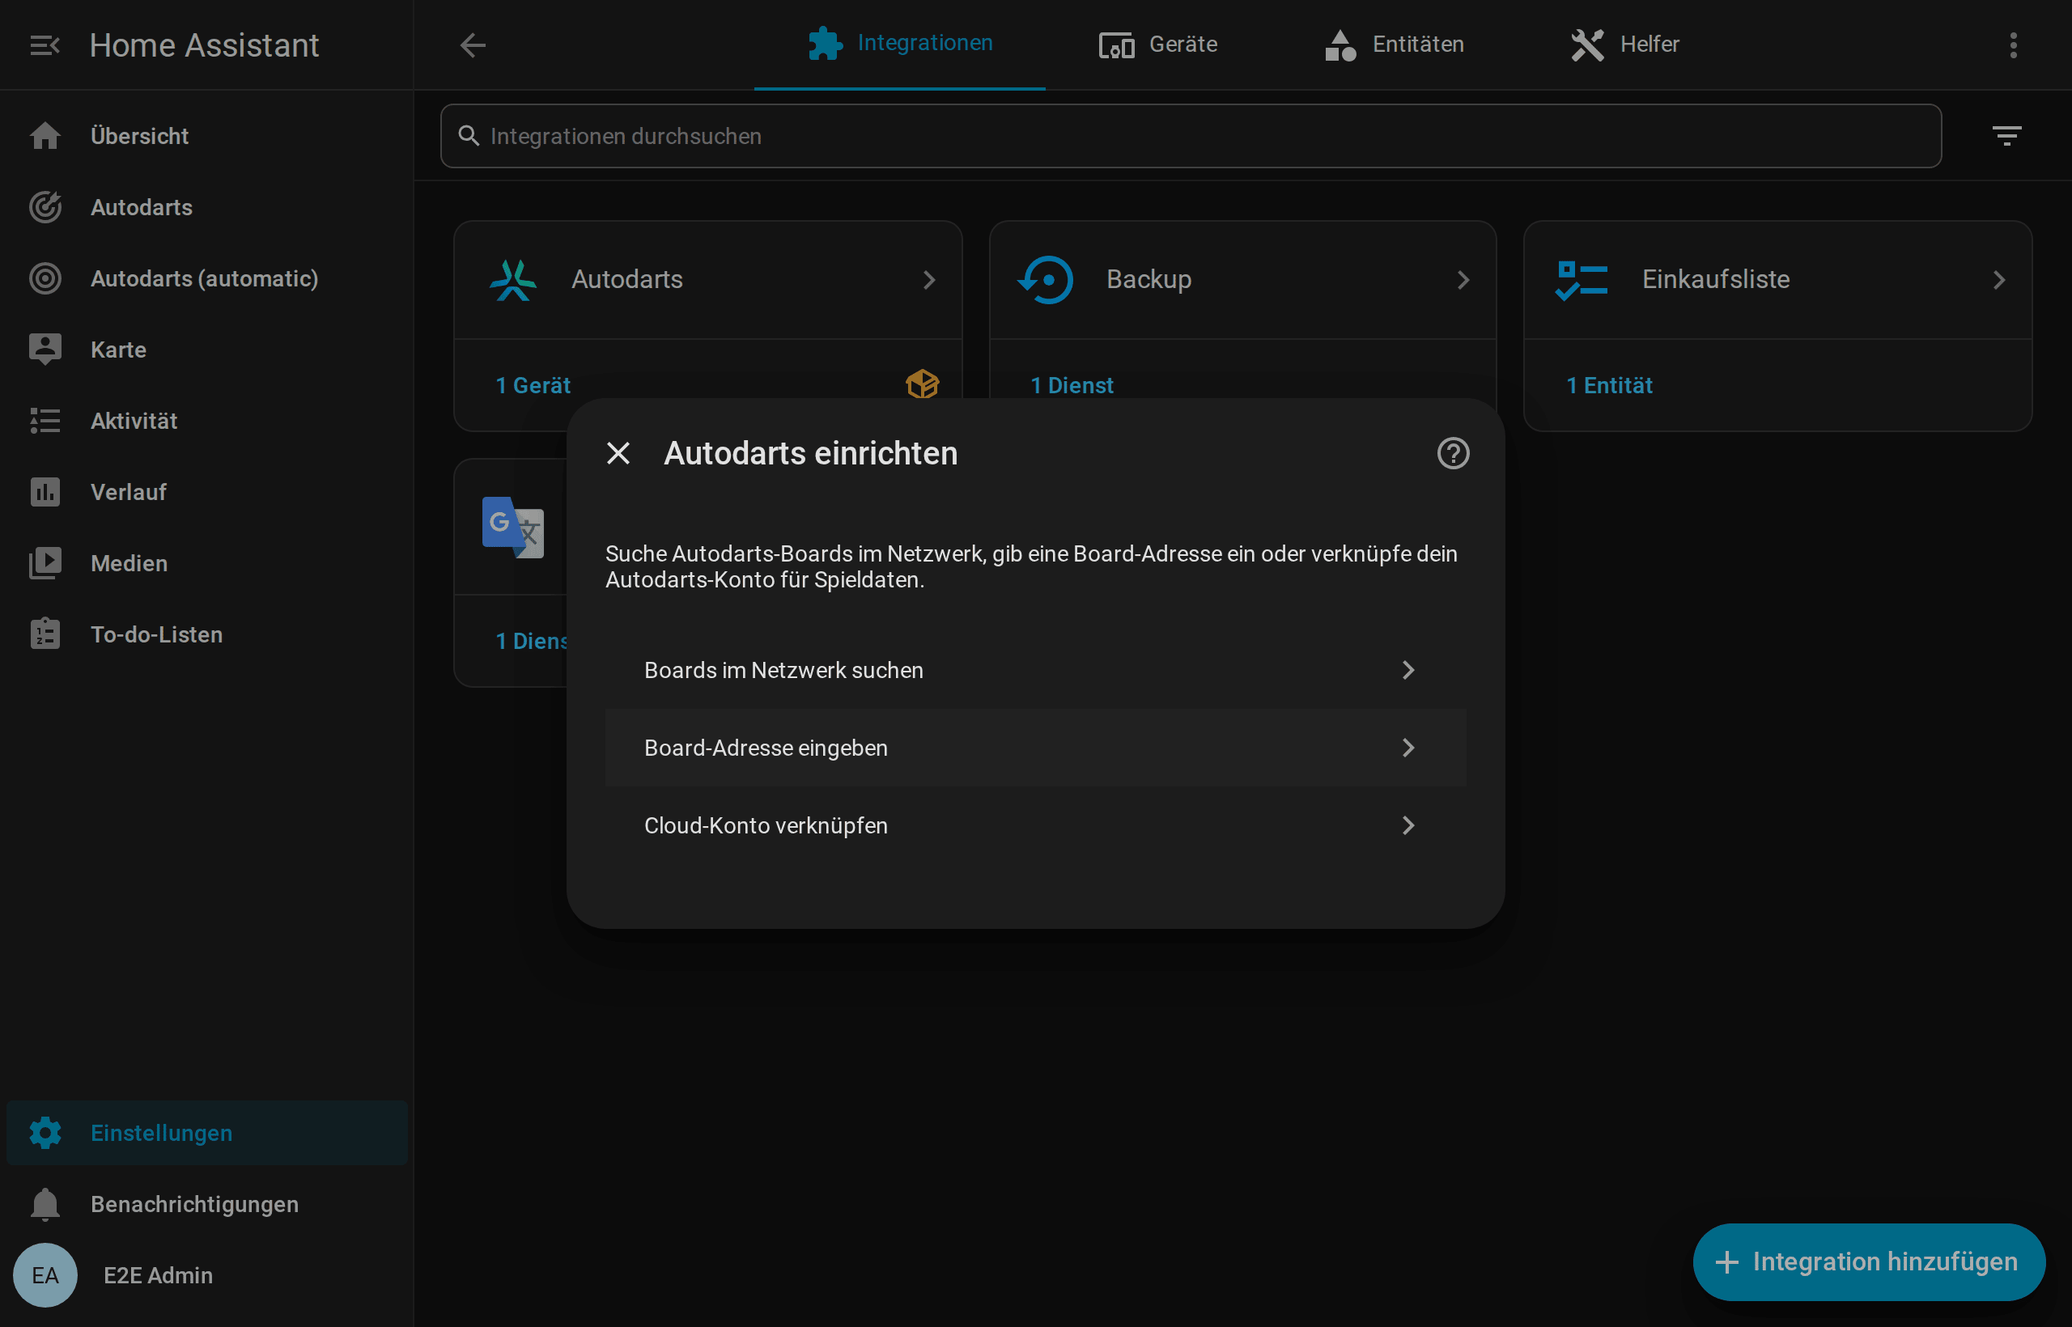
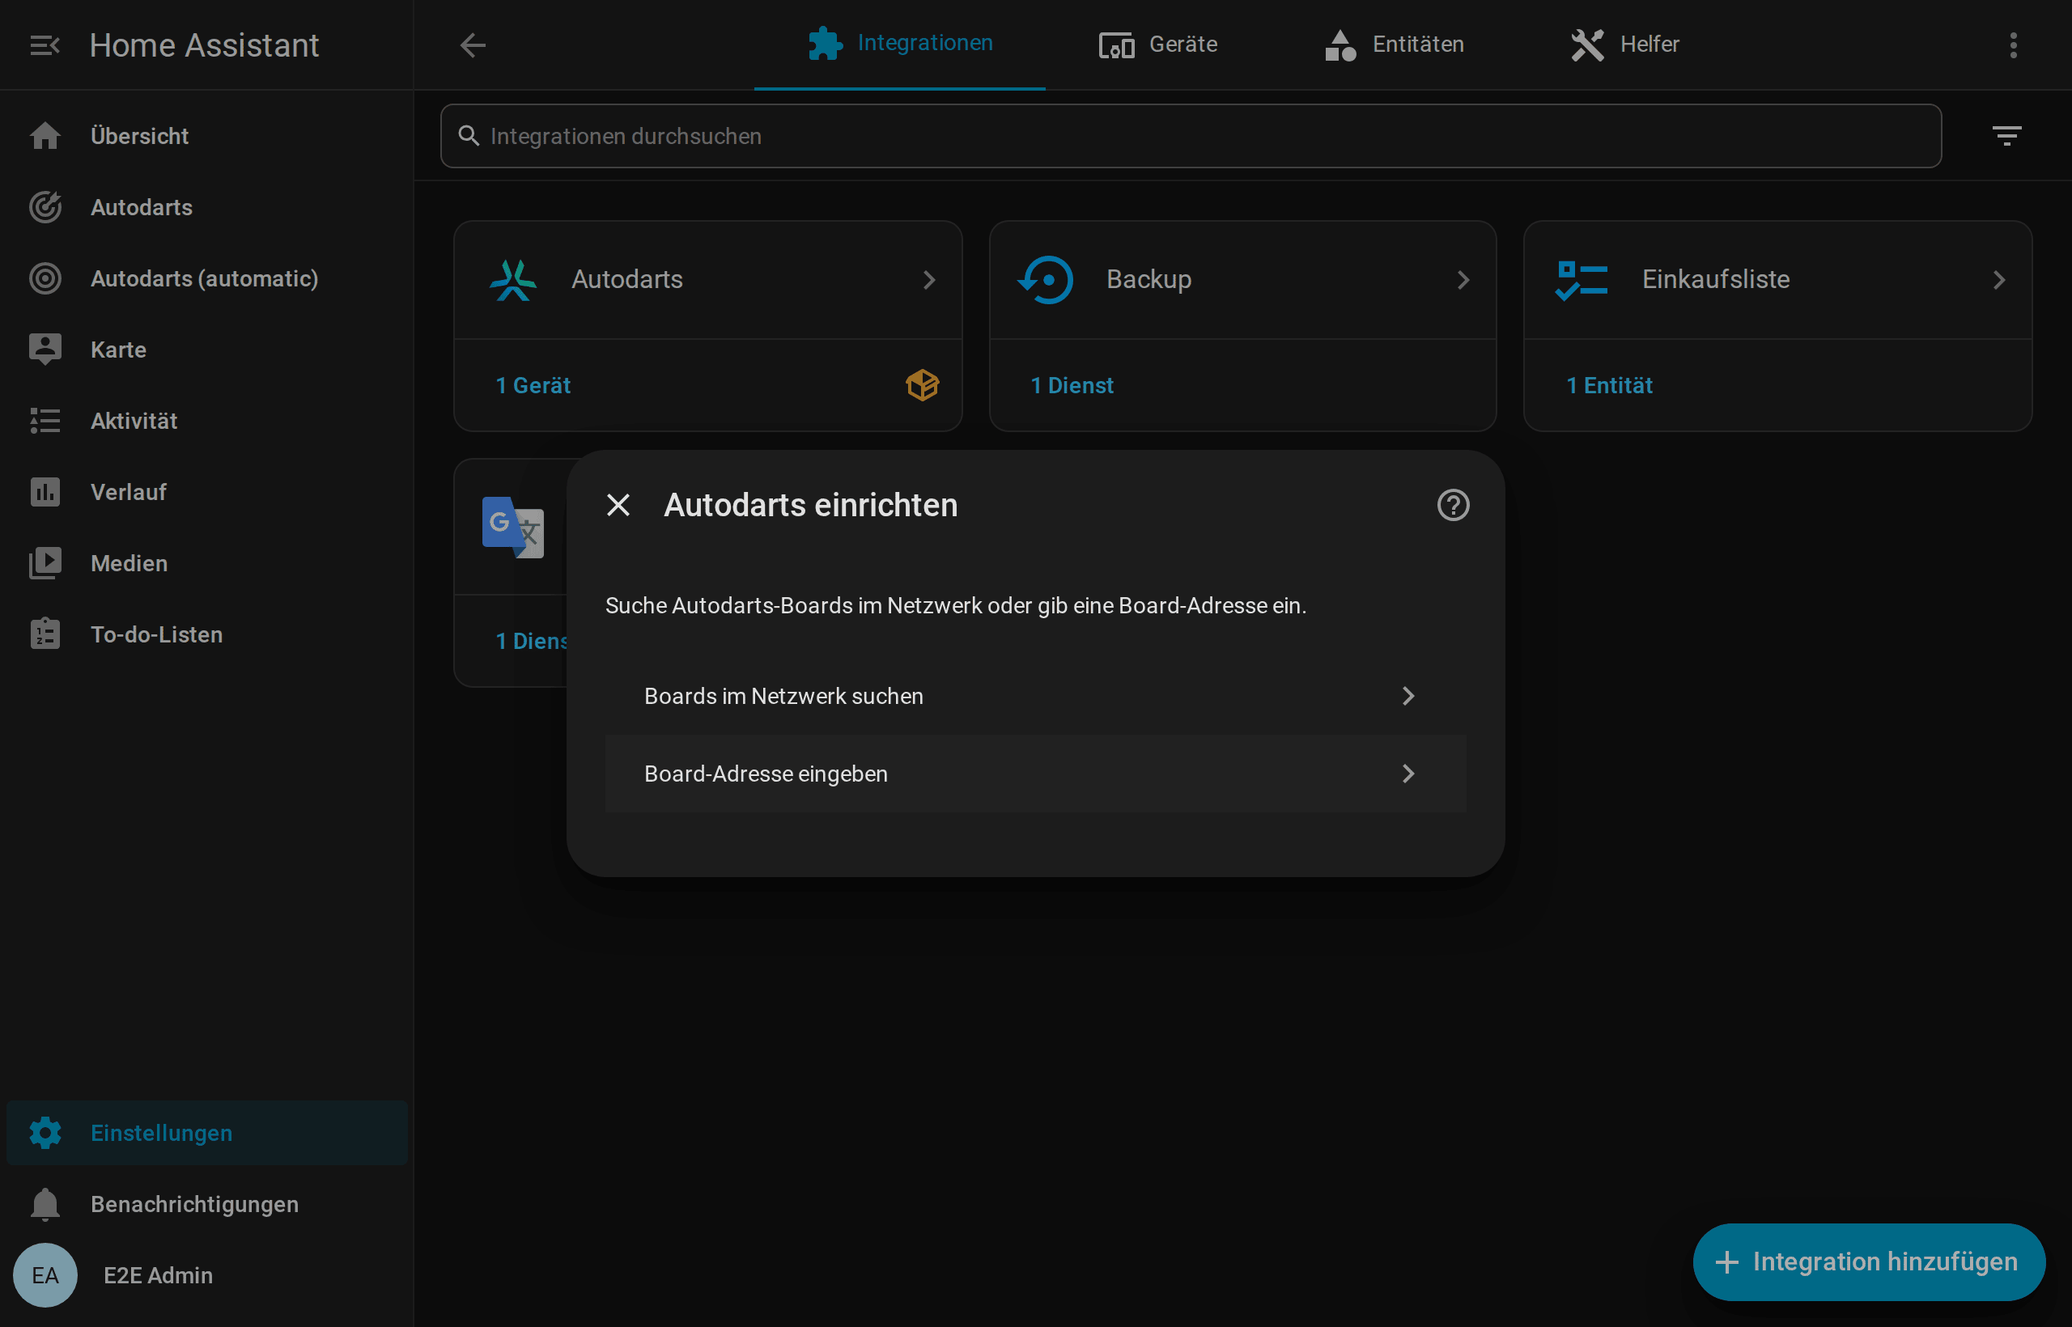
fix(cloud): no dead end while Autodarts has not issued a client ID
Setup and Reconfigure offered "Link cloud account", which asks for an
OAuth client ID that nobody can obtain yet. Until Autodarts issues it:

- the menus offer only discovery and the board address;
- old cloud entries without a client ID run locally instead of asking
  for a login that cannot be completed;
- an entry without a board address fails with a clear request to enter
  it via Reconfigure instead of retrying forever.

With a linked account, the cloud is read every 5 seconds only during a
match and once a minute otherwise. The device login step has a title.
The cloud tests opt in through a fixture; new tests cover the shipped
state.

diff --git a/tests/test_config_flow.py b/tests/test_config_flow.py
@@ -73,6 +73,7 @@ async def complete_link(hass, result, future, boards):
     return result
 
 
+@pytest.mark.usefixtures("cloud_link")
 async def test_device_login_creates_board_entry(hass):
     future = asyncio.get_running_loop().create_future()
     result = await init_cloud_flow(hass)
@@ -87,6 +88,7 @@ async def test_device_login_creates_board_entry(hass):
     assert result["result"].unique_id == "board-1"
 
 
+@pytest.mark.usefixtures("cloud_link")
 async def test_multiple_boards(hass):
     future = asyncio.get_running_loop().create_future()
     result = await init_cloud_flow(hass)
@@ -106,6 +108,7 @@ async def test_multiple_boards(hass):
 @pytest.mark.parametrize(
     "boards,reason", [([], "no_boards"), ([BOARD], "already_configured")]
 )
+@pytest.mark.usefixtures("cloud_link")
 async def test_no_boards_and_legacy_duplicates(hass, boards, reason):
     if reason == "already_configured":
         entry = MockConfigEntry(
@@ -163,6 +166,7 @@ async def test_legacy_reauth_preserves_entry_and_local_settings(hass, boards, re
         (AutodartsConnectionError(), "cannot_connect"),
     ],
 )
+@pytest.mark.usefixtures("cloud_link")
 async def test_code_request_errors(hass, error, translation):
     result = await init_cloud_flow(hass)
     with patch(
@@ -175,6 +179,7 @@ async def test_code_request_errors(hass, error, translation):
     assert result["errors"] == {"base": translation}
 
 
+@pytest.mark.usefixtures("cloud_link")
 @pytest.mark.parametrize("code", ["expired_token", "access_denied"])
 async def test_device_error_can_restart(hass, code):
     future = asyncio.get_running_loop().create_future()
@@ -189,6 +194,7 @@ async def test_device_error_can_restart(hass, code):
     assert result["step_id"] == "cloud"
 
 
+@pytest.mark.usefixtures("cloud_link")
 async def test_abort_cancels_device_polling(hass):
     future = asyncio.get_running_loop().create_future()
     result = await init_cloud_flow(hass)
@@ -198,6 +204,7 @@ async def test_abort_cancels_device_polling(hass):
     assert future.cancelled()
 
 
+@pytest.mark.usefixtures("cloud_link")
 async def test_board_outage_retries_without_new_device_code(hass):
     future = asyncio.get_running_loop().create_future()
     result = await init_cloud_flow(hass)
@@ -225,6 +232,7 @@ async def test_board_outage_retries_without_new_device_code(hass):
     assert result["type"] == FlowResultType.CREATE_ENTRY
 
 
+@pytest.mark.usefixtures("cloud_link")
 async def test_setup_requests_registered_client_id(hass):
     """Do not send users to the retired Keycloak client/redirect flow."""
     result = await init_cloud_flow(hass)

diff --git a/tests/test_config_flow_edges.py b/tests/test_config_flow_edges.py
@@ -3,6 +3,7 @@
 import asyncio
 from unittest.mock import patch
 
+import pytest
 from homeassistant.config_entries import SOURCE_REAUTH
 from homeassistant.data_entry_flow import FlowResultType
 from pytest_homeassistant_custom_component.common import MockConfigEntry
@@ -63,6 +64,7 @@ async def test_local_board_without_version_is_added(hass, aioclient_mock):
     assert "api_generation" not in result["data"]
 
 
+@pytest.mark.usefixtures("cloud_link")
 async def test_cloud_form_rejects_an_invalid_board_address(hass):
     result = await init_cloud_flow(hass)
     result = await hass.config_entries.flow.async_configure(
@@ -72,6 +74,7 @@ async def test_cloud_form_rejects_an_invalid_board_address(hass):
     assert result["errors"] == {"host": "invalid_host"}
 
 
+@pytest.mark.usefixtures("cloud_link")
 async def test_cloud_entry_can_include_the_local_board(hass):
     result = await init_cloud_flow(hass)
     result, future = await link_with(
@@ -84,6 +87,7 @@ async def test_cloud_entry_can_include_the_local_board(hass):
     assert result["data"]["port"] == 3181
 
 
+@pytest.mark.usefixtures("cloud_link")
 async def test_unexpected_login_error_and_lost_connection(hass):
     future = asyncio.get_running_loop().create_future()
     result = await init_cloud_flow(hass)
@@ -103,6 +107,7 @@ async def test_unexpected_login_error_and_lost_connection(hass):
     assert result["errors"] == {"base": "cannot_connect"}
 
 
+@pytest.mark.usefixtures("cloud_link")
 async def test_rejected_token_while_listing_boards_asks_to_retry(hass):
     future = asyncio.get_running_loop().create_future()
     result = await init_cloud_flow(hass)
@@ -115,6 +120,7 @@ async def test_rejected_token_while_listing_boards_asks_to_retry(hass):
     assert result["errors"] == {"base": "invalid_auth"}
 
 
+@pytest.mark.usefixtures("cloud_link")
 async def test_token_refreshed_while_listing_boards_is_stored(hass):
     refreshed = {**TOKEN, "access_token": "refreshed"}
     future = asyncio.get_running_loop().create_future()

diff --git a/custom_components/autodarts/__init__.py b/custom_components/autodarts/__init__.py
@@ -8,7 +8,11 @@ from urllib.parse import urlparse
 
 from homeassistant.config_entries import ConfigEntry
 from homeassistant.core import HomeAssistant
-from homeassistant.exceptions import ConfigEntryAuthFailed, ConfigEntryNotReady
+from homeassistant.exceptions import (
+    ConfigEntryAuthFailed,
+    ConfigEntryError,
+    ConfigEntryNotReady,
+)
 from homeassistant.helpers import config_validation as cv
 from homeassistant.helpers import device_registry as dr
 from homeassistant.helpers import entity_registry as er
@@ -17,6 +21,7 @@ from homeassistant.helpers.aiohttp_client import async_get_clientsession
 from homeassistant.helpers.storage import Store
 from homeassistant.helpers.typing import ConfigType
 
+from . import const
 from .api import AutodartsCloudClient
 from .card import async_register_card
 from .const import (
@@ -110,7 +115,10 @@ async def async_setup_entry(hass: HomeAssistant, entry: AutodartsConfigEntry) ->
             # Entities stay and recover when the board answers again.
             local_error = err
 
-    if not entry.data.get(CONF_LOCAL_ONLY, False):
+    # Without an obtainable client ID, a relink could never be completed.
+    if not entry.data.get(CONF_LOCAL_ONLY, False) and (
+        const.CLOUD_LINK_AVAILABLE or entry.data.get(CONF_CLIENT_ID)
+    ):
 
         def persist_token(token: dict[str, Any]) -> None:
             hass.config_entries.async_update_entry(
@@ -151,7 +159,8 @@ async def async_setup_entry(hass: HomeAssistant, entry: AutodartsConfigEntry) ->
             if await discover_local(runtime.cloud.data.get("board", {}).get("ip")):
                 local_error = None
     elif runtime.local is None:
-        raise ConfigEntryNotReady(
+        # Retrying cannot help: the user has to enter the address first.
+        raise ConfigEntryError(
             translation_domain=DOMAIN, translation_key="no_local_address"
         )
     elif local_error is not None:

diff --git a/custom_components/autodarts/config_flow.py b/custom_components/autodarts/config_flow.py
@@ -17,6 +17,7 @@ from homeassistant.config_entries import (
 from homeassistant.helpers.aiohttp_client import async_get_clientsession
 from homeassistant.helpers.service_info.zeroconf import ZeroconfServiceInfo
 
+from . import const
 from .api import (
     AutodartsAuthError,
     AutodartsCloudClient,
@@ -52,6 +53,14 @@ def _valid_host(host: str) -> bool:
     return True
 
 
+def _menu_options() -> list[str]:
+    """Offer the cloud link only while a client ID can actually be obtained."""
+    options = ["discover", "local"]
+    if const.CLOUD_LINK_AVAILABLE:
+        options.append("cloud")
+    return options
+
+
 def _auth_error(error: AutodartsAuthError) -> str:
     """Map server errors to translated, actionable messages."""
     if error.code in ("invalid_client", "unauthorized_client"):
@@ -80,9 +89,7 @@ class AutodartsConfigFlow(ConfigFlow, domain=DOMAIN):
         self, user_input: dict[str, Any] | None = None
     ) -> ConfigFlowResult:
         """Search the network, enter a board address or link a cloud account."""
-        return self.async_show_menu(
-            step_id="user", menu_options=["discover", "local", "cloud"]
-        )
+        return self.async_show_menu(step_id="user", menu_options=_menu_options())
 
     async def _async_identify(self, host: str, port: int) -> dict[str, Any]:
         client = AutodartsLocalClient(host, port, async_get_clientsession(self.hass))
@@ -194,9 +201,7 @@ class AutodartsConfigFlow(ConfigFlow, domain=DOMAIN):
             for key in (CONF_HOST, CONF_PORT, CONF_CLIENT_ID)
             if key in entry.data
         }
-        return self.async_show_menu(
-            step_id="reconfigure", menu_options=["discover", "local", "cloud"]
-        )
+        return self.async_show_menu(step_id="reconfigure", menu_options=_menu_options())
 
     async def async_step_local(
         self, user_input: dict[str, Any] | None = None, error: str | None = None

diff --git a/tests/test_resilience.py b/tests/test_resilience.py
@@ -28,6 +28,7 @@ def reauth_started(hass) -> bool:
     )
 
 
+@pytest.mark.usefixtures("cloud_link")
 @pytest.mark.parametrize("failure", ["expired", "legacy"])
 async def test_offline_board_and_failed_cloud_login_recover_locally(
     hass, aioclient_mock, failure
@@ -134,6 +135,7 @@ async def test_version_1_entries_are_migrated_without_passwords(
     assert entry.state == ConfigEntryState.LOADED
 
 
+@pytest.mark.usefixtures("cloud_link")
 async def test_version_1_cloud_entry_without_board_address_asks_for_login(hass):
     old = {"email": "player@example.com", "password": "secret", "board_id": "board-1"}
     entry = MockConfigEntry(domain="autodarts", version=1, data=old)
@@ -239,3 +241,16 @@ async def test_board_manager_update_shows_on_the_device(hass, aioclient_mock):
     with patch.object(coordinator.client, "get_version", return_value="2.0.0"):
         await coordinator.async_refresh()
     assert registry.async_get(device.id).sw_version == "2.0.0"
+
+
+async def test_version_1_cloud_entry_without_board_address_asks_for_the_address(hass):
+    """Without a client ID only the local address helps, so no login is started."""
+    old = {"email": "player@example.com", "password": "secret", "board_id": "board-1"}
+    entry = MockConfigEntry(domain="autodarts", version=1, data=old)
+    entry.add_to_hass(hass)
+    assert not await hass.config_entries.async_setup(entry.entry_id)
+    await hass.async_block_till_done()
+    assert dict(entry.data) == {"board_id": "board-1"}
+    assert entry.state == ConfigEntryState.SETUP_ERROR
+    assert entry.error_reason_translation_key == "no_local_address"
+    assert not reauth_started(hass)

diff --git a/tests/test_local_setup.py b/tests/test_local_setup.py
@@ -172,6 +172,7 @@ async def test_disconnect_and_recovery_updates_entities(hass, aioclient_mock):
     assert state(hass, "switch", "detection") == "off"
 
 
+@pytest.mark.usefixtures("cloud_link")
 @pytest.mark.parametrize("failure", ["expired", "unavailable", "legacy"])
 async def test_local_controls_survive_cloud_setup_failure(
     hass, aioclient_mock, failure
@@ -309,4 +310,24 @@ async def test_discovered_host_saved_and_later_cloud_auth_failure_is_isolated(
     assert any(
         flow["step_id"] == "reauth_confirm"
         for flow in hass.config_entries.flow.async_progress()
+    )
+
+
+async def test_entry_without_client_id_runs_locally_without_a_login(
+    hass, aioclient_mock
+):
+    """An old cloud entry is not asked for a login that cannot be completed."""
+    mock_board(aioclient_mock)
+    data = {**entry_data(), **local_entry_data(), "local_only": False}
+    data.pop("client_id")
+    entry = MockConfigEntry(domain="autodarts", version=2, data=data)
+    entry.add_to_hass(hass)
+    assert await hass.config_entries.async_setup(entry.entry_id)
+    await hass.async_block_till_done()
+    assert entry.state == ConfigEntryState.LOADED
+    assert entry.runtime_data.cloud is None
+    assert state(hass, "binary_sensor", "local_connected") == "on"
+    assert not hass.config_entries.flow.async_progress()
+    assert not any(
+        str(call[1]).startswith(API_BASE) for call in aioclient_mock.mock_calls
     )

diff --git a/tests/test_setup.py b/tests/test_setup.py
@@ -1,5 +1,6 @@
 """Exercise setup, credential persistence and reauthentication in Home Assistant."""
 
+from datetime import timedelta
 from unittest.mock import AsyncMock
 
 import pytest
@@ -25,6 +26,7 @@ def entry_data():
     }
 
 
+@pytest.mark.usefixtures("cloud_link")
 async def test_old_entry_requests_reauthentication(hass):
     data = entry_data()
     del data["client_id"]
@@ -97,3 +99,16 @@ async def test_auth_errors_from_all_cloud_reads_require_reauth(hass, method):
     coordinator = AutodartsDataUpdateCoordinator(hass, cloud, "board-1")
     with pytest.raises(ConfigEntryAuthFailed):
         await coordinator._async_update_data()
+
+
+async def test_cloud_is_polled_quickly_only_during_a_match(hass):
+    cloud = AsyncMock()
+    cloud.get_board.return_value = {"id": "board-1"}
+    coordinator = AutodartsDataUpdateCoordinator(hass, cloud, "board-1")
+    await coordinator._async_update_data()
+    assert coordinator.update_interval == timedelta(seconds=60)
+    cloud.get_board.return_value = {"id": "board-1", "matchId": "match-1"}
+    cloud.get_match.return_value = {"id": "match-1"}
+    cloud.get_match_state.return_value = {"round": 1}
+    await coordinator._async_update_data()
+    assert coordinator.update_interval == timedelta(seconds=5)

diff --git a/tests/test_local_flow.py b/tests/test_local_flow.py
@@ -114,6 +114,7 @@ async def test_reconfigure_keeps_board_and_cloud_data(
         assert entry.data == data
 
 
+@pytest.mark.usefixtures("cloud_link")
 async def test_add_cloud_to_local_entry_keeps_identity(hass):
     entry = MockConfigEntry(
         domain="autodarts", version=2, unique_id="board-1", data=local_entry_data()
@@ -134,3 +135,17 @@ async def test_add_cloud_to_local_entry_keeps_identity(hass):
     assert entry.data["host"] == "192.0.2.10"
     assert entry.unique_id == "board-1"
     assert len(hass.config_entries.async_entries("autodarts")) == 1
+
+
+async def test_menus_offer_no_cloud_link_without_a_client_id(hass):
+    """Autodarts has not issued a client ID yet, so no menu leads to a dead end."""
+    entry = MockConfigEntry(
+        domain="autodarts", version=2, unique_id="board-1", data=local_entry_data()
+    )
+    entry.add_to_hass(hass)
+    for context in (
+        {"source": SOURCE_USER},
+        {"source": SOURCE_RECONFIGURE, "entry_id": entry.entry_id},
+    ):
+        result = await hass.config_entries.flow.async_init("autodarts", context=context)
+        assert result["menu_options"] == ["discover", "local"]

diff --git a/custom_components/autodarts/coordinator.py b/custom_components/autodarts/coordinator.py
@@ -16,7 +16,7 @@ from .api import (
     AutodartsAuthError,
     AutodartsCloudClient,
 )
-from .const import DEFAULT_SCAN_INTERVAL, DOMAIN
+from .const import DEFAULT_SCAN_INTERVAL, DOMAIN, IDLE_SCAN_INTERVAL
 
 _LOGGER = logging.getLogger(__name__)
 
@@ -66,6 +66,10 @@ class AutodartsDataUpdateCoordinator(DataUpdateCoordinator[dict[str, Any]]):
 
         # 2. Cloud: if a match is active, fetch match data + live state
         match_id = board.get("matchId")
+        # Poll quickly only during a match, to go easy on the cloud API.
+        self.update_interval = timedelta(
+            seconds=DEFAULT_SCAN_INTERVAL if match_id else IDLE_SCAN_INTERVAL
+        )
         if match_id:
             try:
                 match = await self.cloud.get_match(match_id)

diff --git a/custom_components/autodarts/const.py b/custom_components/autodarts/const.py
@@ -5,7 +5,13 @@ from typing import Final
 DOMAIN: Final = "autodarts"
 
 DEFAULT_PORT: Final = 3180
-DEFAULT_SCAN_INTERVAL: Final = 5  # seconds
+DEFAULT_SCAN_INTERVAL: Final = 5  # seconds, cloud polling during a match
+IDLE_SCAN_INTERVAL: Final = 60  # seconds, cloud polling without a match
+
+# Autodarts has not issued the public OAuth client ID for this integration yet.
+# Until it does, setup offers no cloud link and entries without a client ID run
+# locally instead of asking for a login that cannot be completed.
+CLOUD_LINK_AVAILABLE = False
 
 # Config entry keys
 CONF_TOKEN: Final = "token"

diff --git a/tests/test_discovery.py b/tests/test_discovery.py
@@ -120,7 +120,7 @@ async def test_search_lists_new_boards_and_connects_locally(hass, aioclient_mock
     aioclient_mock.get(DISCOVERY_URL, json=LISTED)
     mock_board_v2(aioclient_mock)
     result = await start(hass)
-    assert result["menu_options"] == ["discover", "local", "cloud"]
+    assert result["menu_options"] == ["discover", "local"]
     result = await hass.config_entries.flow.async_configure(
         result["flow_id"], {"next_step_id": "discover"}
     )

diff --git a/tests/e2e/scenario.py b/tests/e2e/scenario.py
@@ -259,8 +259,7 @@ class Scenario:
     async def local_flow(self, host: str, port: int) -> dict:
         menu = await self.flow()
         check(
-            menu["type"] == "menu"
-            and menu["menu_options"] == ["discover", "local", "cloud"],
+            menu["type"] == "menu" and menu["menu_options"] == ["discover", "local"],
             f"Unexpected setup menu: {menu}",
         )
         form = await self.flow(menu["flow_id"], next_step_id="local")
